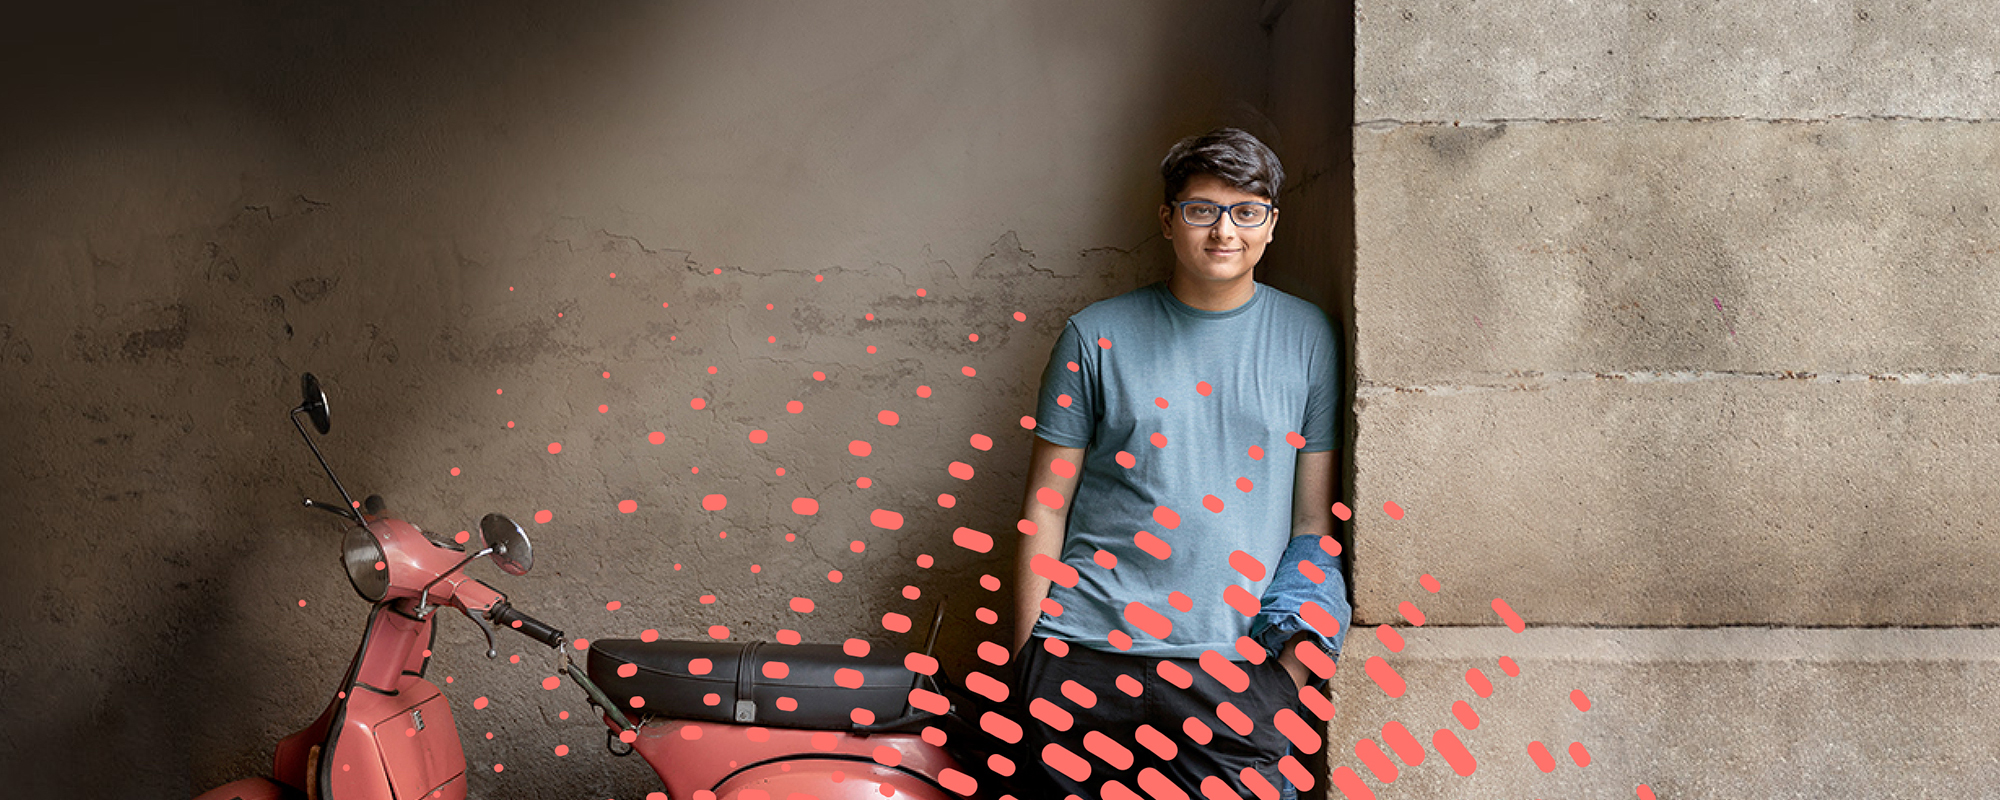
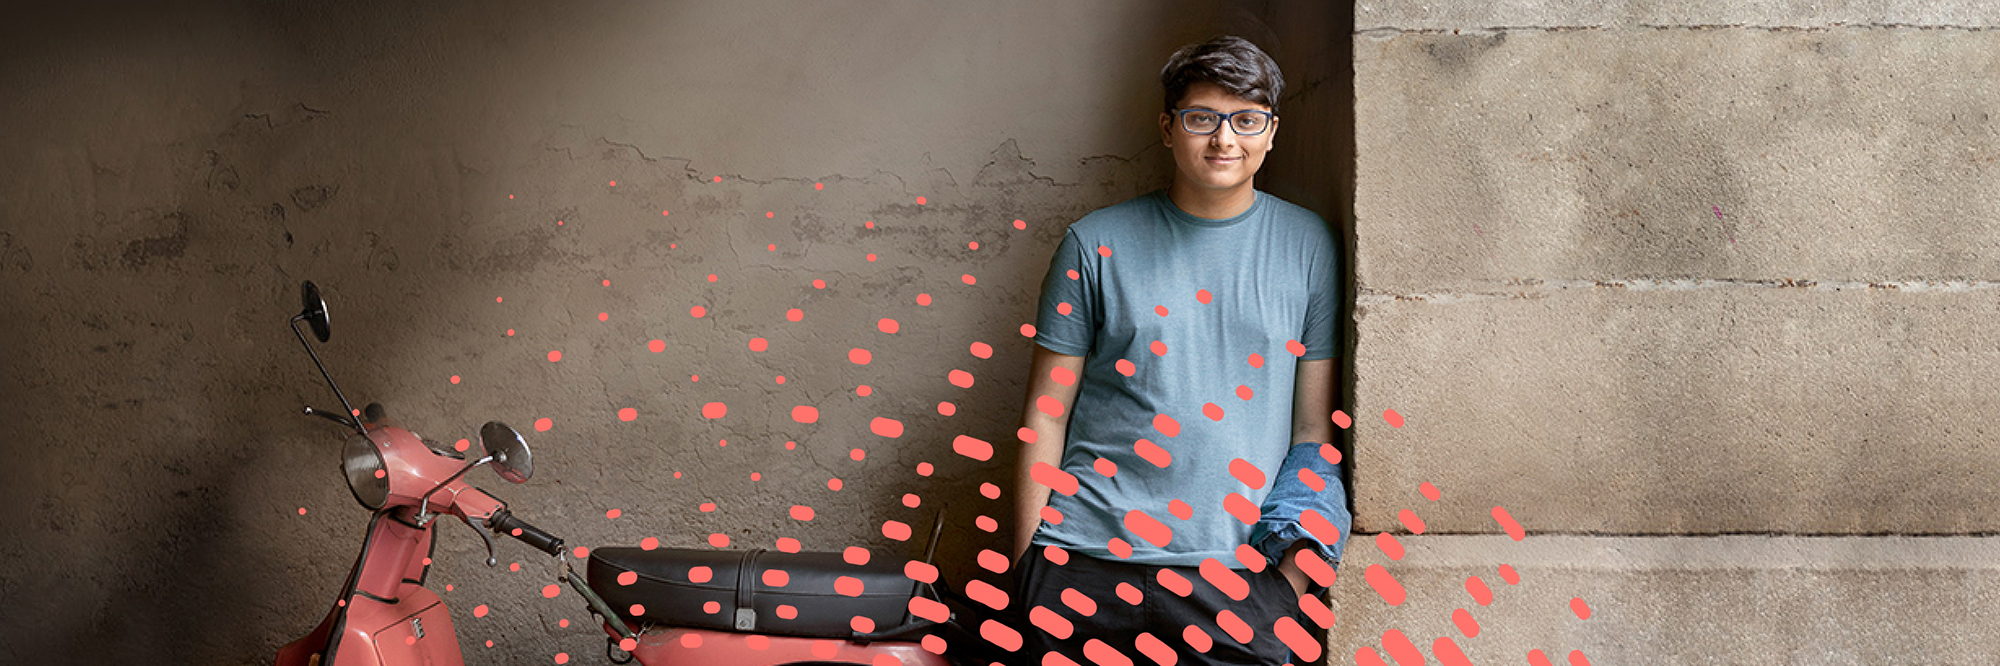
Revert "Revert "Merge branch 'master' of https://github.com/iverfinne/Dr-mmebedriften""
This reverts commit bd75176981a612673aa652a722a5d9122517f982.

diff --git a/drommebedriften/src/app/database-bedrifter.ts b/drommebedriften/src/app/database-bedrifter.ts
@@ -59,7 +59,7 @@ export const Bedrifter: Bedrift[] = [
         ruterLink: 'bouvet',
         logoLink: `${LocalPaths.path_bedriftLogo}bouvet.png`,
         framsidebileteLink: `${LocalPaths.path_bedriftFramsidebilete}Bouvet.jpg`,
-        framsidebiletePosisjon: 'center -35vh',
+        framsidebiletePosisjon: 'center -50vh',
         beskriving1: `Vil du jobbe med noen av Norges mest fremtredende virksomheter og være med å skape løsninger med stor betydning for enkeltmennesker så vel som for samfunnet? Ønsker du å kunne påvirke din egen hverdag og din egen utvikling? Vil du prøve nye veier uten å stenge gamle?`,
         linktekst1: 1,
         link1: 'https://www.bouvet.no/om-bouvet',
@@ -217,7 +217,7 @@ export const Bedrifter: Bedrift[] = [
         ruterLink: 'knowit',
         logoLink: `${LocalPaths.path_bedriftLogo}Knowit.png`,
         framsidebileteLink: `${LocalPaths.path_bedriftFramsidebilete}Knowit.jpg`,
-        framsidebiletePosisjon: 'center -19vh',
+        framsidebiletePosisjon: 'center -0vh',
         beskriving1: `Knowit er Nordens største digitalbyrå. Vi lager en haug med løsninger som gjør hverdagen bedre og enklere for millioner av mennesker. Du har kanskje hørt om Vipps, RuterReise og BankID på mobil? Knowit er idédrevet, og oppmuntrer innovasjon, tverrfaglighet og personlig engasjement. Siden 1990 har vi turt å tenke annerledes her eneste dag, og våre 2300 entusiaster innenfor teknologi, design, strategi og kommunikasjon finner nye måter å gjøre ting enda bedre på. Vi har kontorer midt i smørøyet av Bergen og Oslo, i tillegg til Stavanger og Kristiansand. Hos Knowit får du en spennende og sosial arbeidsplass med høyt fokus på faglig utvikling – hvor kolleger heier på hverandre og deler ut high fives over en lav sko.`,
         linktekst1: 1,
         link1: 'https://www.knowit.no/',
@@ -381,7 +381,7 @@ export const Bedrifter: Bedrift[] = [
         namn: 'Capgemini',
         ruterLink: 'capgemini',
         logoLink: `${LocalPaths.path_bedriftLogo}Capgemini.png`,
-        framsidebileteLink: `${LocalPaths.path_bedriftFramsidebilete}Capgemini.jpg`,
+        framsidebileteLink: `${LocalPaths.path_bedriftframsidebilete}Capgemini.jpg`,
         framsidebiletePosisjon: 'center -14vh',
         beskriving1: `Med mer enn 270 000 ansatte i over 40 land er Capgemini et av verdens ledende selskaper innen teknologi og rådgivning. Capgemini utvikler og leverer forretnings- og teknologiløsninger som møter kundenes behov, og hjelper med å oppnå de resultatene de ønsker. I Norge har vi rundt 1200 konsulenter som jobber med på interessante oppdrag i privat og offentlig sektor. Vi har kontorer i Oslo, Bergen, Stavanger, Fredrikstad, Trondheim og Lillehammer.`,
         beskriving2: null,
